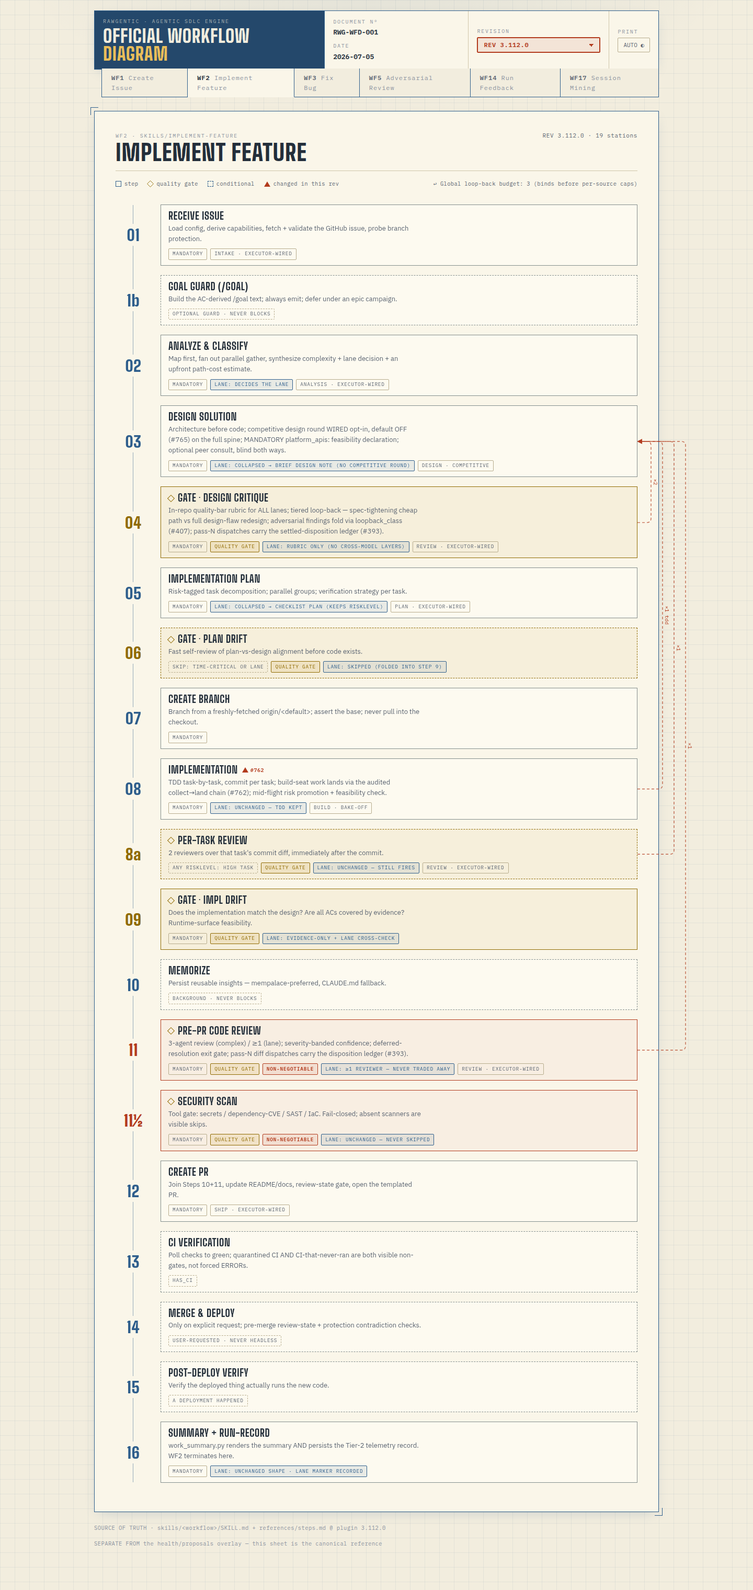
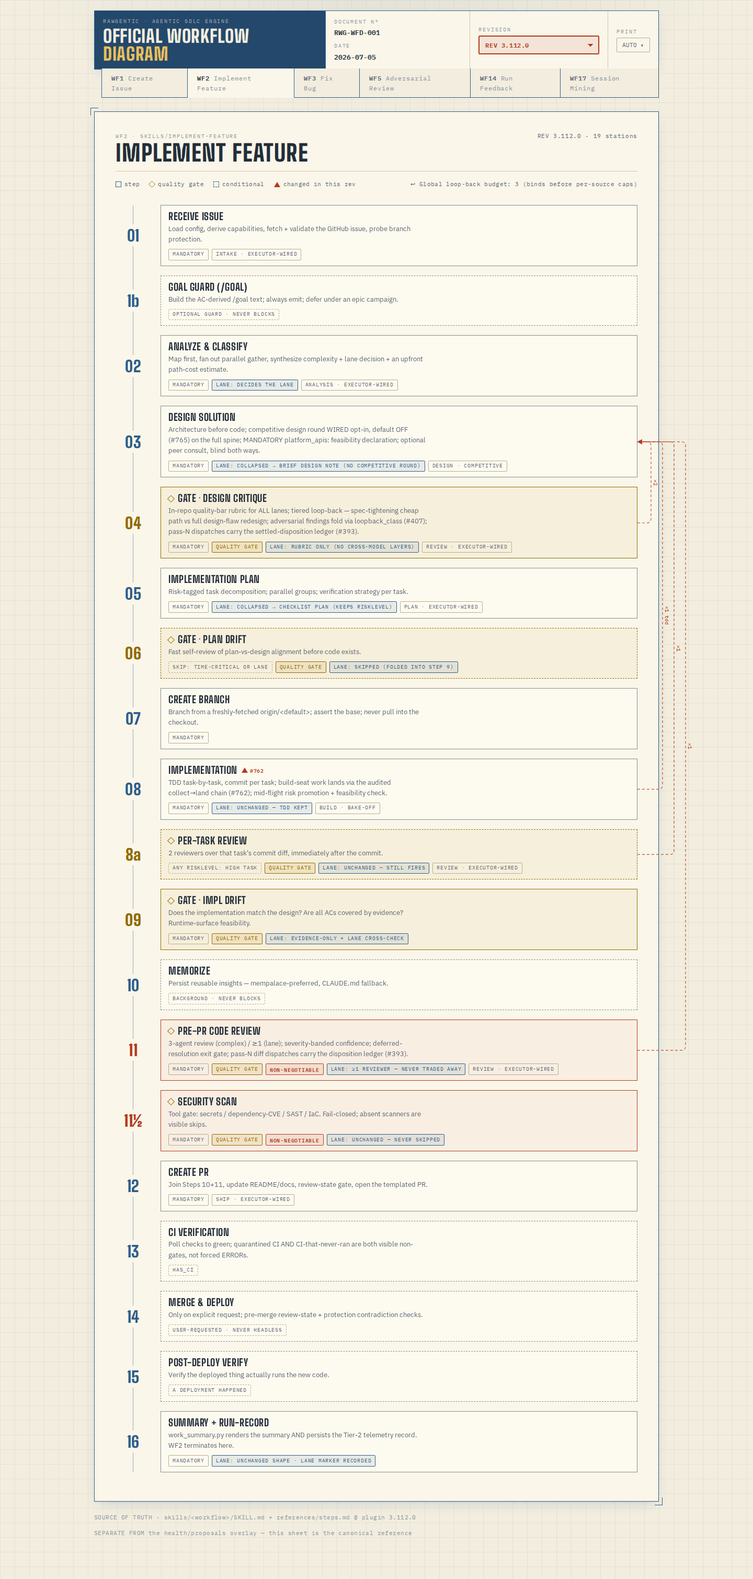
fix(executor,wf2,wf3): Step-11 wave - landing conflicts index by nonce alone, run_id validated at landing, landing-state-aware recovery prose, retune prose tracks executable policy, WF3 producer type derives from seat (#762)
Five findings from the 2-reviewer executor wave (3 independently converged
with the adversarial layer): land_work_product now refuses a same-nonce
different-new_sha landing BEFORE any git mutation (reconcile parity) and
validates run_id one-to-one with its audit dir; steps.md item 4 recovery is
landing-state-aware (baseline-dirty declared paths never checkout-restored);
sol-vs-opus/fable-sol-sonnet prose migrated to the owner matrix across the
shared block, WF3 copy, and the CURRENT diagram rev (historical revs kept,
snapshots regenerated + eyeballed); WF3 DISPATCH type is executor:<seat>.
New dynamic guards tie the pairing/chain prose to DESIGN_MODELS + the
routing table. Red-first for both code fixes; scoped 651 passed.

diff --git a/docs/workflow-diagram.html b/docs/workflow-diagram.html
@@ -291,8 +291,8 @@ const DATA = {
          sum:"Architecture before code; competitive design round WIRED opt-in, default OFF (#765) on the full spine; MANDATORY platform_apis: feasibility declaration; optional peer consult, blind both ways.",
          lane:"collapsed → brief design note (no competitive round)",
          purpose:"Produce the design document before any implementation: file changes, configuration, error handling and failure modes, security implications — plus project-type extras (data flow + migrations for applications, containers + rollback for infrastructure). The small-standard lane collapses this to a brief design note because bounded work has one obvious approach.",
-         sub:[["a","Competitive design round (#765, full spine, OPT-IN): gated by design-round-enabled (designBakeoff on the workspace project entry, default OFF; disabled = brief-note mechanism, session-note line). When enabled: python3 hooks/bakeoff_policy.py design-round --prompt-file <brief> --run-id wf2-<issue>-<session> --correlation-id <issue>-s3-design --winner-out <design-draft-path> --evidence-out <path> — sol vs opus concurrent, glm-5.2 judge; --winner-out delivers the winner's exact bytes as the design draft (stdout/evidence carry no payloads); the round path re-enforces the gate (disabled = exit 4); sanitized evidence joins the run's audit context (raw sink stays gitignored); judge failure: exit 3 fail-loud interactive, judge_degraded incumbent under --headless"],["b","Opt-in peer consult dispatches in the BACKGROUND, blind both ways — your own draft must be on disk before reading the peer's"],["c","2–3 approaches (complex, via subagent brainstorm) or 1–2 inline (standard); pick with rationale"],["d","Design doc: file changes, config changes, error handling, security implications (+ type-specific sections)"],["e","Multi-PR assessment: >500 lines or separable phases → flag for decomposition in Step 5"],["f","Peer-consult failure is non-blocking — gate on exit code; empty proposal → proceed with your own design"],["g","platform_apis: declaration — `none` or evidence-cited blocks; assumed=Step-4 blocker; working-precedent = exact API on exact object kind; fail-silent needs a surfacing assertion"]],
-         facts:[["Bake-off","WIRED opt-in, default OFF (#765) · sol vs opus · glm judge · --winner-out delivers · run-identity on record"],["Peer consult","opt-in · background · non-blocking"],["Blindness","own draft first, both ways"],["Feasibility","platform_apis: mandatory · omission blocks (#226)"]]},
+         sub:[["a","Competitive design round (#765, full spine, OPT-IN): gated by design-round-enabled (designBakeoff on the workspace project entry, default OFF; disabled = brief-note mechanism, session-note line). When enabled: python3 hooks/bakeoff_policy.py design-round --prompt-file <brief> --run-id wf2-<issue>-<session> --correlation-id <issue>-s3-design --winner-out <design-draft-path> --evidence-out <path> — sol vs fable concurrent, glm-5.2 judge; --winner-out delivers the winner's exact bytes as the design draft (stdout/evidence carry no payloads); the round path re-enforces the gate (disabled = exit 4); sanitized evidence joins the run's audit context (raw sink stays gitignored); judge failure: exit 3 fail-loud interactive, judge_degraded incumbent under --headless"],["b","Opt-in peer consult dispatches in the BACKGROUND, blind both ways — your own draft must be on disk before reading the peer's"],["c","2–3 approaches (complex, via subagent brainstorm) or 1–2 inline (standard); pick with rationale"],["d","Design doc: file changes, config changes, error handling, security implications (+ type-specific sections)"],["e","Multi-PR assessment: >500 lines or separable phases → flag for decomposition in Step 5"],["f","Peer-consult failure is non-blocking — gate on exit code; empty proposal → proceed with your own design"],["g","platform_apis: declaration — `none` or evidence-cited blocks; assumed=Step-4 blocker; working-precedent = exact API on exact object kind; fail-silent needs a surfacing assertion"]],
+         facts:[["Bake-off","WIRED opt-in, default OFF (#765) · sol vs fable · glm judge · --winner-out delivers · run-identity on record"],["Peer consult","opt-in · background · non-blocking"],["Blindness","own draft first, both ways"],["Feasibility","platform_apis: mandatory · omission blocks (#226)"]]},
         {id:"4", num:"04", name:"Gate · Design Critique", kind:"gate", mand:true,
          sum:"In-repo quality-bar rubric for ALL lanes; tiered loop-back — spec-tightening cheap path vs full design-flaw redesign; adversarial findings fold via loopback_class (#407); pass-N dispatches carry the settled-disposition ledger (#393).",
          lane:"rubric only (no cross-model layers)",

diff --git a/tests/test_model_routing_resolve_prose.py b/tests/test_model_routing_resolve_prose.py
@@ -264,3 +264,70 @@ def test_review_seat_row_names_no_review_fast_seat():
             f"{skill}: dispatch prose must not name review_fast as a seat"
     assert "--seat <review|review_fast>" not in _norm(skill_corpus("fix-bug")), \
         "fix-bug: the dispatch CLI template must use --seat review"
+
+
+# --- #762 Step-11 r1-2/r2-3: retune-pinned prose tracks the EXECUTABLE policy ---------------
+
+_MODEL_SHORT = {"gpt-5.6-sol": "sol", "claude-fable-5": "fable", "claude-opus-5": "opus",
+                "claude-sonnet-5": "sonnet", "gpt-5.6-terra": "terra"}
+
+
+def _short(model_id: str) -> str:
+    assert model_id in _MODEL_SHORT, (
+        f"model id {model_id!r} has no short prose name — extend _MODEL_SHORT so the "
+        f"retune-prose guards keep tracking the executable policy")
+    return _MODEL_SHORT[model_id]
+
+
+def _design_pairing() -> str:
+    sys.path.insert(0, str(REPO / "hooks"))
+    import bakeoff_policy  # noqa: E402  pylint: disable=import-outside-toplevel
+    a, b = bakeoff_policy.DESIGN_MODELS
+    return f"{_short(a)} vs {_short(b)}"
+
+
+def _review_chain() -> str:
+    import json  # pylint: disable=import-outside-toplevel
+    table = json.loads((REPO / "phase_executor" / "src" / "phase_executor" / "routing"
+                        / "rawgentic.routing-table.json").read_text(encoding="utf-8"))
+    seat = table["seats"]["review"]
+    order = [seat["primary"]["model"]] + [c["model"] for c in seat["chain"]
+                                          if c["model"] != seat["primary"]["model"]]
+    return " → ".join(_short(m) for m in order)
+
+
+def test_design_pairing_prose_tracks_design_models():
+    # A future retune of DESIGN_MODELS fails these until the prose moves with it (r1-2/r2-3).
+    pairing = _design_pairing()
+    for surface in (SHARED, REPO / "skills" / "implement-feature" / "SKILL.md"):
+        text = _norm(surface.read_text(encoding="utf-8"))
+        assert f"({pairing} concurrent, glm-5.2 judge)" in text, (
+            f"{surface.name}: the design-round pairing prose must state the executable "
+            f"DESIGN_MODELS pairing {pairing!r}")
+
+
+def test_design_pairing_current_diagram_rev_tracks_design_models():
+    # Only the CURRENT (non-superseded) diagram rev must track the live pairing; historical
+    # revs legitimately keep the models of their day.
+    pairing = _design_pairing()
+    html = (REPO / "docs" / "workflow-diagram.html").read_text(encoding="utf-8")
+    m = re.search(r'"([0-9.]+)": \{ superseded:false', html)
+    assert m, "no non-superseded wf2 rev found in the diagram data"
+    start = m.start()
+    nxt = re.search(r'"[0-9.]+": \{ superseded:"', html[start:])
+    block = html[start:start + nxt.start()] if nxt else html[start:]
+    assert f"· {pairing} ·" in block, (
+        f"the current diagram rev {m.group(1)} must state the executable pairing {pairing!r}")
+    others = set(re.findall(r"· (\w+ vs \w+) ·", block)) - {pairing}
+    assert not others, f"current diagram rev carries a non-executable pairing: {others}"
+
+
+def test_review_chain_prose_tracks_routing_table():
+    chain = _review_chain()
+    for surface, needle in (
+            (SHARED, f"the `review` chain {chain}"),
+            (REPO / "skills" / "implement-feature" / "SKILL.md", f"the `review` chain {chain}"),
+            (REPO / "skills" / "fix-bug" / "SKILL.md", f"the routing table, {chain}")):
+        text = _norm(surface.read_text(encoding="utf-8"))
+        assert needle in text, (
+            f"{surface}: the review-chain prose must state the executable order {chain!r}")

diff --git a/hooks/executor_routing_lib.py b/hooks/executor_routing_lib.py
@@ -2110,6 +2110,15 @@ def land_work_product(*, repo: Optional[str] = None, expected_ref: str, pre_sha:
                         "land-work-product: audited mode requires --run-id --workspace "
                         "--project (or pass --no-audit as the explicit unaudited opt-out)",
                         retryable=False, correlation_id=ce)
+        try:
+            # #762 Step-11 r2-5: RoutingAuditLog SANITIZES its run_id component ('a/b' and
+            # 'a_b' address the same audit directory), so a path-unsafe id could consume a
+            # foreign run stream's work-product authorization — refuse at entry, before any
+            # audit read or git mutation (the same validation every other entry point runs).
+            _safe_component(run_id, "run_id")
+        except MalformedConfig as e:
+            return _err(EXIT_MALFORMED, "landing_invalid_input",
+                        f"land-work-product: {e}", retryable=False, correlation_id=ce)
         if audit is None:
             try:
                 pe = _import_phase_executor()
@@ -2194,12 +2203,24 @@ def land_work_product(*, repo: Optional[str] = None, expected_ref: str, pre_sha:
         for r in records:
             if r.get("kind") != "landed_work_product":
                 continue
-            if r.get("receipt_nonce") != nonce or r.get("new_sha") != new_sha:
+            if r.get("receipt_nonce") != nonce:
                 continue
             if all(r.get(k) == ours[k] for k in _LANDING_IDENTITY_FIELDS):
                 has_matching_landing = True
             else:
+                # #762 Step-11 r2-2: index by receipt nonce ALONE — reconcile treats ANY two
+                # distinct identities for one nonce as landing_conflict, so a same-nonce
+                # record at a DIFFERENT new_sha (a poisoned or corrupt landing) must conflict
+                # here too, not slip past a (nonce, new_sha) filter until post-merge.
                 has_conflicting_landing = True
+        if has_conflicting_landing:
+            # Refuse BEFORE any git mutation (r2-2); _append_landing keeps the same guard as
+            # defense in depth. The temp ref is retained for forensics.
+            return _err(EXIT_INTERNAL, "landing_identity_conflict",
+                        f"land-work-product: an existing landed_work_product for receipt "
+                        f"{nonce!r} carries a DIFFERENT immutable identity — refusing before "
+                        f"any git mutation; reconcile manually", retryable=False,
+                        correlation_id=ce)
 
     def _append_landing(status: str):
         """R4-B: append (idempotent, conflict-refusing) — returns an error dict or None."""

diff --git a/tests/hooks/test_collect_task_path.py b/tests/hooks/test_collect_task_path.py
@@ -441,6 +441,37 @@ def test_land_identity_conflict_refuses_at_append(repo, tmp_path):
     assert _git(repo, "rev-parse", "--verify", TEMP_REF)[0] == 0  # retained for forensics
 
 
+def test_land_same_nonce_different_new_sha_refuses_pre_merge(repo, tmp_path):
+    # #762 Step-11 r2-2: landing and reconcile must agree on the conflict identity — a
+    # landed_work_product for the SAME receipt nonce at a DIFFERENT new_sha is a conflicting
+    # identity (reconcile already calls it landing_conflict), refused BEFORE any git mutation,
+    # not silently ignored until post-merge reconciliation.
+    audit, base, new_sha = _setup(repo, tmp_path)
+    audit._write_locked({  # pylint: disable=protected-access
+        "kind": "landed_work_product", "landing_version": 1, "receipt_nonce": "rn1",
+        "feature_ref": FEAT, "pre_sha": base, "new_sha": "f" * 40,
+        "temp_ref": TEMP_REF, "landing_status": "landed", "run_id": "runI", "ts": 1})
+    res = er.land_work_product(repo=str(repo), expected_ref=FEAT, pre_sha=base,
+                               new_sha=new_sha, temp_ref=TEMP_REF, run_id="runI", audit=audit)
+    assert res["ok"] is False and res["error"]["code"] == "landing_identity_conflict"
+    # pre-mutation: the branch did NOT advance and the temp ref is retained
+    assert _git(repo, "rev-parse", "refs/heads/feat-x")[1].strip() == base
+    assert _git(repo, "rev-parse", "--verify", TEMP_REF)[0] == 0
+
+
+def test_land_path_unsafe_run_id_refuses(repo, tmp_path):
+    # #762 Step-11 r2-5: RoutingAuditLog sanitizes run_id ('a/b' and 'a_b' address the same
+    # audit directory), so a path-unsafe run_id could consume another run stream's
+    # authorization — refused at entry, before any audit read or git mutation.
+    audit, base, new_sha = _setup(repo, tmp_path)
+    res = er.land_work_product(repo=str(repo), expected_ref=FEAT, pre_sha=base,
+                               new_sha=new_sha, temp_ref=TEMP_REF, run_id="run/../I",
+                               audit=audit)
+    assert res["ok"] is False and res["error"]["code"] == "landing_invalid_input"
+    assert res["exit"] == 2
+    assert _git(repo, "rev-parse", "refs/heads/feat-x")[1].strip() == base
+
+
 def _write_workspace(tmp_path, project="canon"):
     ws = tmp_path / ".rawgentic_workspace.json"
     ws.write_text(json.dumps({"version": 1, "projects": [

diff --git a/tests/test_wf3_clarity.py b/tests/test_wf3_clarity.py
@@ -306,13 +306,19 @@ class TestExecutorDispatchContractWF3:
             "the R4-D WF3 complexity-to-gate mapping must be present (#762)")
 
     def test_producer_sentence_present(self):
+        # #762 Step-11 r2-4/r1-3: WF3 dispatches BOTH seats since the build adoption — the
+        # producer type derives from the seat, never hardcodes executor:review.
         corpus = _norm(_text())
-        assert ("The producer is the executor result dict (`type=executor:review`, "
-                "`model=<actual_model>`, `resolution=primary`) on the primary tier, "
+        assert ("The producer is the executor result dict (`type=executor:<seat>` — "
+                "`executor:review` for review dispatches, `executor:build` for "
+                "implementation dispatches — `model=<actual_model>`, "
+                "`resolution=primary`) on the primary tier, "
                 "or — under the LEGACY architecture only — the Agent-tool dispatch "
                 "(`resolution=fallback`).") in corpus, (
-            "the WF3 DISPATCH producer sentence (executor result dict vs "
-            "legacy-architecture Agent-tool) must be present (#474)")
+            "the WF3 DISPATCH producer sentence (seat-derived executor type vs "
+            "legacy-architecture Agent-tool) must be present (#474, #762)")
+        assert "(`type=executor:review`, `model=<actual_model>`" not in corpus, (
+            "the pre-#762 hardcoded executor:review producer form must be gone")
 
     def test_per_run_tier_selection_present(self):
         corpus = _norm(_text())

diff --git a/skills/implement-feature/references/steps.md b/skills/implement-feature/references/steps.md
@@ -999,7 +999,12 @@ runnable commit lands on the branch, before the receipt gates.
    - **EXECUTOR tier (the default):** a mutating executor build dispatch delivers UNCOMMITTED worktree work — the linked worktree's real gitdir lives under the MAIN repo's `.git/worktrees/<leaf>/` and that gitdir is read-only under containment, so the agent cannot commit (and the commit write-set spans the common `.git` — objects DB, refs — so widening the grant would expose the canonical repo; #767's live probe). Committing is the ORCHESTRATOR's job, in two steps. **(a) Promote** the work product onto a per-collection temp ref via the collection entry point: `python3 hooks/executor_routing_lib.py collect-work-product --run-id <run> --session-name <job> --target-ref refs/rawgentic/collect/<receipt-nonce> --expected-target-sha 0000000000000000000000000000000000000000 --expected-feature-ref <feature-ref recorded before dispatch> --kind code --promote-path <file> [--promote-path <file> …] --workspace <ws> --project <name>` — for `--kind code`, `--expected-feature-ref` is mandatory: collect authorizes the landing destination at collection time; use one `--promote-path` per declared task file (the staging backstop enforced as promote's fail-closed exact-path policy; binary-safe by candidate-tree construction; receipt+observation-authorized; the temp ref uses create semantics, so promote's CF-1 tip-guard does not bind here — the fast-forward in (b) is the branch-level guard; the CLI ENFORCES this exact ref+zero-SHA shape for exact-path collects, `invalid_collect_ref` otherwise). **(b) Land** it on the checked-out feature branch via the production verb: `python3 hooks/executor_routing_lib.py land-work-product --expected-ref <feature-ref recorded before dispatch> --pre-sha <recorded pre-task SHA> --new-sha <new_sha> --temp-ref refs/rawgentic/collect/<receipt-nonce> --run-id <run> --workspace <ws> --project <name>` — audited mode derives the repo from workspace+project; `--no-audit` is the explicit unaudited opt-out for standalone/ops use, never the WF2 path. It refuses ONLY when a path changed by `pre_sha..new_sha` is itself dirty in the checkout (`landing_dirty_paths`, naming the paths); unrelated dirt is tolerated, and git's own ff checkout-overwrite protection stays as the fail-loud backstop. It also asserts `git symbolic-ref -q HEAD` equals the feature ref recorded before dispatch, then tri-states on the ref's SHA — at the recorded pre-task SHA → `git merge --ff-only <new_sha>`; already exactly `new_sha` → already-landed (crash recovery), continue cleanup; anything else, a detached HEAD, or a different branch at the same SHA → REFUSE. Post-merge it asserts HEAD and the ref both equal exactly `new_sha`, appends a `landed_work_product` audit record AFTER the merge and BEFORE the CAS temp-ref delete, then CAS-deletes the temp ref (`git update-ref -d refs/rawgentic/collect/<receipt-nonce> <new_sha>`). An audit-append failure retains the temp ref; a re-run heals it. A bare `update-ref` on the checked-out feature branch is FORBIDDEN — it moves the ref while the files/index stay at the pre-task state, so the scoped suite would test stale code. This ratifies-and-supersedes the #735 ad-hoc diff-export collection (commit ba4ceec): same principle — the orchestrator lands the work — with the authorization, CAS, and binary fidelity the improvisation lacked.
    - **LEGACY tier (Agent-tool worktree dispatches, which CAN commit):** the agent's commit lives in the shared object store but NOT on the feature branch — collect it first (cherry-pick or fast-forward the reported SHA onto the feature branch). Apply the staging backstop to the COLLECTED commit (`git show --name-only <sha>` ⊆ the task's declared `files`), not the main tree's staging area.
    - **Either tier:** **assert the branch actually advanced** (`git rev-parse HEAD` differs from the recorded pre-task HEAD) **AND that the advance carries content** (`git diff --name-only <pre-task sha>..HEAD` is non-empty — an empty commit advances HEAD while every diff-scoped gate passes vacuously, #767 8a); a task whose work never lands is NOT done, and skipping this check would let the later diff-scoped gates (Step 8a, Step 11, secret scan) run over an empty diff and pass vacuously. The serial chain depends on it too: the next task's worktree is cut only after the work is on the branch. Then re-run the SCOPED suite for the task's area (per `<test-run-discipline>`, SKILL.md — the recorded-baseline diff belongs to Step 9's full-suite gate, which still runs in the orchestrator). On success (scoped tests green, only expected paths changed, work landed on the branch) → proceed to the next task. At this completed collect/land call site, emit exactly ONE canonical `DISPATCH` line per build-seat workflow dispatch, with outcome per the `<model-routing-resolve>` emission rule (`ok`/`retried`/`error`/`dead`); attempts never emit their own lines.
-4. **On failure or vacuous return:** **restore ONLY the task-owned paths** first — `git checkout -- <task's declared files>` for tracked content, plus removal of ONLY the agent's reported untracked outputs after they are confirmed still-untracked and path-checked; never blanket-reset or clean a shared checkout — then **retry that task once at the CEILING model** (escalate: a down-routed task that struggled gets the configured maximum, dispatched the same clean-state way, or inline if the ceiling is `inherit`). Log the escalation. Because the restore runs first, the retry never operates on a half-mutated tree.
+4. **On failure or vacuous return — recovery is LANDING-STATE-AWARE (#762 Step 11; the item-1 dirty baseline is the authority on what was already there):**
+   - **No landing occurred** (executor tier — including a landing refusal): the shared checkout was never touched; the work lives in the isolated worktree/temp ref. **Restore NOTHING** — leave the checkout and every baseline path exactly as item 1 recorded them. A landing refused for `landing_dirty_paths` names the operator's own pre-existing edits: a `git checkout --` there would destroy exactly what the refusal protected. Clean up an orphaned collect temp ref only after confirming no landing record was appended for its nonce.
+   - **A landing already happened, then verification failed** (scoped suite red on the landed commit): do NOT checkout-restore — the branch advanced to the landed SHA and file-level restore cannot move HEAD back, so a "restore" reads from the failed commit itself. Treat it as the normal red-suite failure path: fix forward, or revert with a NEW commit after proving `git rev-parse HEAD` still equals the task's landed SHA; if baseline preservation cannot be proven, STOP for manual recovery.
+   - **LEGACY tier without isolation** (the only case where the agent mutated the shared checkout): restore ONLY the task's declared paths that the item-1 baseline recorded as CLEAN — `git checkout -- <those paths>`; a declared path the baseline recorded as DIRTY stops for manual recovery instead (never checkout-overwrite an operator edit). Remove ONLY the agent's reported untracked outputs after they are confirmed still-untracked and path-checked; never blanket-reset or clean a shared checkout.
+
+   Then **retry that task once at the CEILING model** (escalate: a down-routed task that struggled gets the configured maximum, dispatched the same clean-state way, or inline if the ceiling is `inherit`). Log the escalation. The recovery rules above run first, so the retry never operates on a half-mutated tree — and never on a tree from which an operator's recorded edits were "restored" away.
 5. Delegation can never block Step 8: a second failure falls through to the normal Step 8 failure handling.
 
 Under the LEGACY architecture, when the `implementation` role is `inherit`, Step 8 runs inline exactly as it did pre-#474 — no delegation (and if the session model is Haiku, dispatch any implementation subagent with `model: sonnet`).

diff --git a/skills/implement-feature/SKILL.md b/skills/implement-feature/SKILL.md
@@ -180,7 +180,7 @@ Build seats require BOTH `--gate-file` and `--plan-file` (the authenticated #429
 | WF2 phase | seat | notes |
 |---|---|---|
 | Step 2 fan-out | `analysis` | concurrent executor dispatches of the `analysis` seat (D-2); ≤3 concurrent preserved |
-| Step 3 design generation | bake-off (`competitive`) | competitive-only, never single-dispatch — **WIRED, opt-in (#765, owner decision 2026-07-31): gated by `python3 hooks/bakeoff_policy.py design-round-enabled --workspace <workspace-file> --project <name>` (exit 0 = opted in via `designBakeoff: {"enabled": true}` on the project's workspace entry; default OFF — a non-zero exit skips the round with a session-note line, Step 3 keeps its current mechanism). When opted in, full-spine Step 3 design generation dispatches ONE competitive design round via `python3 hooks/bakeoff_policy.py design-round --prompt-file <brief> --run-id wf2-<issue>-<session> --correlation-id <issue>-s3-design --workspace <workspace-file> --project <name> --winner-out <design-draft-path> --evidence-out <path>` (sol vs opus concurrent, glm-5.2 judge). `--winner-out` IS the winner-delivery channel: Step 3 proceeds only after exit 0 AND adopts that file's exact bytes as the design draft — stdout and the evidence carry no payloads, so a round without `--winner-out` produces no draft. The sanitized `--evidence-out` record rides the run's audit context — the raw sink stays gitignored. The round path itself re-enforces the opt-in (a disabled project refuses, exit 4) — the probe verb is the prose gate, not the only guard. Prerequisites: the judge env (`source ~/.config/rawgentic/glm-judge.env`) and a zhipuai-capable python — run the CLI under one (e.g. the workspace `.venv-bench`); on judge failure the CLI exits 3 fail-loud (interactive) or records a `judge_degraded` incumbent winner (`--headless`) — a degraded round is surfaced, never silently passed. The small-standard lane keeps its brief design note (the lane drops design ceremony, not review); a lane child skips the round with a session-note line.** |
+| Step 3 design generation | bake-off (`competitive`) | competitive-only, never single-dispatch — **WIRED, opt-in (#765, owner decision 2026-07-31): gated by `python3 hooks/bakeoff_policy.py design-round-enabled --workspace <workspace-file> --project <name>` (exit 0 = opted in via `designBakeoff: {"enabled": true}` on the project's workspace entry; default OFF — a non-zero exit skips the round with a session-note line, Step 3 keeps its current mechanism). When opted in, full-spine Step 3 design generation dispatches ONE competitive design round via `python3 hooks/bakeoff_policy.py design-round --prompt-file <brief> --run-id wf2-<issue>-<session> --correlation-id <issue>-s3-design --workspace <workspace-file> --project <name> --winner-out <design-draft-path> --evidence-out <path>` (sol vs fable concurrent, glm-5.2 judge). `--winner-out` IS the winner-delivery channel: Step 3 proceeds only after exit 0 AND adopts that file's exact bytes as the design draft — stdout and the evidence carry no payloads, so a round without `--winner-out` produces no draft. The sanitized `--evidence-out` record rides the run's audit context — the raw sink stays gitignored. The round path itself re-enforces the opt-in (a disabled project refuses, exit 4) — the probe verb is the prose gate, not the only guard. Prerequisites: the judge env (`source ~/.config/rawgentic/glm-judge.env`) and a zhipuai-capable python — run the CLI under one (e.g. the workspace `.venv-bench`); on judge failure the CLI exits 3 fail-loud (interactive) or records a `judge_degraded` incumbent winner (`--headless`) — a degraded round is surfaced, never silently passed. The small-standard lane keeps its brief design note (the lane drops design ceremony, not review); a lane child skips the round with a session-note line.** |
 | Step 4 / 8a / 11 review | `review` | always the `review` seat — `review_fast` is a #491 LENS/model tier resolved via `resolve --role review --lens <lens>`, NOT a wired seat (`classify_seat` rejects it; the standing authorization covers exactly `analysis`/`review`/`build`, #735) |
 | Step 8 implementation | `build` | gate authentication + internally minted plan context (`--gate-file` + `--plan-file`, both mandatory) |
 | Step 16 | local | no model call |
@@ -221,7 +221,7 @@ Resolution decision table (maps the dispatch ladder to #329's vocab):
 | Named agent type unavailable AND no bundled substitute tier is declared (or the substitute also fails to resolve) → generic inline-prompt dispatch | `generic` (`subagent_type` = `generic-<role>`) |
 | A bundled SUBSTITUTE agent type ran in place of an unavailable named type | `fallback` — no WF2 producer today; WF3 Step 9's declared per-slot chain (#331) produces it at tier 2 |
 
-**Seat fallback chains + circuit breaker (#417).** Each seat's model is a config-declared chain (the routing table's `primary` + `chain[]`, e.g. the interim `review` chain fable → sol → sonnet, #426), tried in order on an AVAILABILITY failure; the skip is **chain-aware** — it drops any entry that would violate the artifact's cross-model invariant, never blindly the literal next entry. **A chain that exhausts its eligible entries is a handled hard failure, never a silent downgrade** — the run surfaces it (the ERROR protocol), it does not quietly proceed on an unrouted model.
+**Seat fallback chains + circuit breaker (#417).** Each seat's model is a config-declared chain (the routing table's `primary` + `chain[]`, e.g. the `review` chain sol → fable → sonnet — owner matrix 2026-07-31, #762), tried in order on an AVAILABILITY failure; the skip is **chain-aware** — it drops any entry that would violate the artifact's cross-model invariant, never blindly the literal next entry. **A chain that exhausts its eligible entries is a handled hard failure, never a silent downgrade** — the run surfaces it (the ERROR protocol), it does not quietly proceed on an unrouted model.
 
 **Concurrency ceiling (#417).** Keep **≤ 3 concurrent Claude subagents** (the standing cap); when the driver itself is dispatching Claude work alongside them, reserve one slot for the driver → an **effective working ceiling of 2**. This is a PROSE rule — no programmatic clamp exists — so honor it when fanning out (Step 8a's two reviewers and Step 11's two agents (#492) sit within the cap; a cross-engine candidate on the codex/zhipu pool consumes no Claude slot). `queued_ms` on an Observation records any queue wait so a stall is diagnosable.
 

diff --git a/shared/blocks/model-routing-resolve.md b/shared/blocks/model-routing-resolve.md
@@ -38,7 +38,7 @@ Build seats require BOTH `--gate-file` and `--plan-file` (the authenticated #429
 | WF2 phase | seat | notes |
 |---|---|---|
 | Step 2 fan-out | `analysis` | concurrent executor dispatches of the `analysis` seat (D-2); ≤3 concurrent preserved |
-| Step 3 design generation | bake-off (`competitive`) | competitive-only, never single-dispatch — **WIRED, opt-in (#765, owner decision 2026-07-31): gated by `python3 hooks/bakeoff_policy.py design-round-enabled --workspace <workspace-file> --project <name>` (exit 0 = opted in via `designBakeoff: {"enabled": true}` on the project's workspace entry; default OFF — a non-zero exit skips the round with a session-note line, Step 3 keeps its current mechanism). When opted in, full-spine Step 3 design generation dispatches ONE competitive design round via `python3 hooks/bakeoff_policy.py design-round --prompt-file <brief> --run-id wf2-<issue>-<session> --correlation-id <issue>-s3-design --workspace <workspace-file> --project <name> --winner-out <design-draft-path> --evidence-out <path>` (sol vs opus concurrent, glm-5.2 judge). `--winner-out` IS the winner-delivery channel: Step 3 proceeds only after exit 0 AND adopts that file's exact bytes as the design draft — stdout and the evidence carry no payloads, so a round without `--winner-out` produces no draft. The sanitized `--evidence-out` record rides the run's audit context — the raw sink stays gitignored. The round path itself re-enforces the opt-in (a disabled project refuses, exit 4) — the probe verb is the prose gate, not the only guard. Prerequisites: the judge env (`source ~/.config/rawgentic/glm-judge.env`) and a zhipuai-capable python — run the CLI under one (e.g. the workspace `.venv-bench`); on judge failure the CLI exits 3 fail-loud (interactive) or records a `judge_degraded` incumbent winner (`--headless`) — a degraded round is surfaced, never silently passed. The small-standard lane keeps its brief design note (the lane drops design ceremony, not review); a lane child skips the round with a session-note line.** |
+| Step 3 design generation | bake-off (`competitive`) | competitive-only, never single-dispatch — **WIRED, opt-in (#765, owner decision 2026-07-31): gated by `python3 hooks/bakeoff_policy.py design-round-enabled --workspace <workspace-file> --project <name>` (exit 0 = opted in via `designBakeoff: {"enabled": true}` on the project's workspace entry; default OFF — a non-zero exit skips the round with a session-note line, Step 3 keeps its current mechanism). When opted in, full-spine Step 3 design generation dispatches ONE competitive design round via `python3 hooks/bakeoff_policy.py design-round --prompt-file <brief> --run-id wf2-<issue>-<session> --correlation-id <issue>-s3-design --workspace <workspace-file> --project <name> --winner-out <design-draft-path> --evidence-out <path>` (sol vs fable concurrent, glm-5.2 judge). `--winner-out` IS the winner-delivery channel: Step 3 proceeds only after exit 0 AND adopts that file's exact bytes as the design draft — stdout and the evidence carry no payloads, so a round without `--winner-out` produces no draft. The sanitized `--evidence-out` record rides the run's audit context — the raw sink stays gitignored. The round path itself re-enforces the opt-in (a disabled project refuses, exit 4) — the probe verb is the prose gate, not the only guard. Prerequisites: the judge env (`source ~/.config/rawgentic/glm-judge.env`) and a zhipuai-capable python — run the CLI under one (e.g. the workspace `.venv-bench`); on judge failure the CLI exits 3 fail-loud (interactive) or records a `judge_degraded` incumbent winner (`--headless`) — a degraded round is surfaced, never silently passed. The small-standard lane keeps its brief design note (the lane drops design ceremony, not review); a lane child skips the round with a session-note line.** |
 | Step 4 / 8a / 11 review | `review` | always the `review` seat — `review_fast` is a #491 LENS/model tier resolved via `resolve --role review --lens <lens>`, NOT a wired seat (`classify_seat` rejects it; the standing authorization covers exactly `analysis`/`review`/`build`, #735) |
 | Step 8 implementation | `build` | gate authentication + internally minted plan context (`--gate-file` + `--plan-file`, both mandatory) |
 | Step 16 | local | no model call |
@@ -79,7 +79,7 @@ Resolution decision table (maps the dispatch ladder to #329's vocab):
 | Named agent type unavailable AND no bundled substitute tier is declared (or the substitute also fails to resolve) → generic inline-prompt dispatch | `generic` (`subagent_type` = `generic-<role>`) |
 | A bundled SUBSTITUTE agent type ran in place of an unavailable named type | `fallback` — no WF2 producer today; WF3 Step 9's declared per-slot chain (#331) produces it at tier 2 |
 
-**Seat fallback chains + circuit breaker (#417).** Each seat's model is a config-declared chain (the routing table's `primary` + `chain[]`, e.g. the interim `review` chain fable → sol → sonnet, #426), tried in order on an AVAILABILITY failure; the skip is **chain-aware** — it drops any entry that would violate the artifact's cross-model invariant, never blindly the literal next entry. **A chain that exhausts its eligible entries is a handled hard failure, never a silent downgrade** — the run surfaces it (the ERROR protocol), it does not quietly proceed on an unrouted model.
+**Seat fallback chains + circuit breaker (#417).** Each seat's model is a config-declared chain (the routing table's `primary` + `chain[]`, e.g. the `review` chain sol → fable → sonnet — owner matrix 2026-07-31, #762), tried in order on an AVAILABILITY failure; the skip is **chain-aware** — it drops any entry that would violate the artifact's cross-model invariant, never blindly the literal next entry. **A chain that exhausts its eligible entries is a handled hard failure, never a silent downgrade** — the run surfaces it (the ERROR protocol), it does not quietly proceed on an unrouted model.
 
 **Concurrency ceiling (#417).** Keep **≤ 3 concurrent Claude subagents** (the standing cap); when the driver itself is dispatching Claude work alongside them, reserve one slot for the driver → an **effective working ceiling of 2**. This is a PROSE rule — no programmatic clamp exists — so honor it when fanning out (Step 8a's two reviewers and Step 11's two agents (#492) sit within the cap; a cross-engine candidate on the codex/zhipu pool consumes no Claude slot). `queued_ms` on an Observation records any queue wait so a stall is diagnosable.
 

diff --git a/skills/fix-bug/SKILL.md b/skills/fix-bug/SKILL.md
@@ -131,7 +131,7 @@ WF3 review dispatches use the `review` seat and never carry `--gate-file`/`--pla
 | 5 internal | `error` | terminal internal fault |
 | 6 refused (canary) | `error` | terminal refusal |
 
-**Emission rule (per WORKFLOW DISPATCH, #735 — owner-ratified):** the ORCHESTRATOR owns the retry loop: one workflow dispatch may comprise up to two executor ATTEMPTS (distinct correlation ids, e.g. `<id>` and `<id>-r1`), each attempt leaving its own receipt/observation in the audit trail — and the workflow dispatch emits exactly ONE canonical `DISPATCH` line once the loop completes (retried-then-succeeded → `outcome=retried`; retried-and-failed → `outcome=error`; abandoned hung/vacuous → `dead`). The attempt-level executor call never emits a session-note DISPATCH line of its own; no attempt ever disappears — attempt detail lives in receipts, not extra DISPATCH lines. Retry is permitted ONLY on proven death: a terminal failure observation for sync attempts (a #733 `dispatch_*` process-failure result is one) — an unverified kill or a receipt with no observation goes DIRECTLY to the ERROR protocol, no blind retry (#733/#766). The producer is the executor result dict (`type=executor:review`, `model=<actual_model>`, `resolution=primary`) on the primary tier, or — under the LEGACY architecture only — the Agent-tool dispatch (`resolution=fallback`).
+**Emission rule (per WORKFLOW DISPATCH, #735 — owner-ratified):** the ORCHESTRATOR owns the retry loop: one workflow dispatch may comprise up to two executor ATTEMPTS (distinct correlation ids, e.g. `<id>` and `<id>-r1`), each attempt leaving its own receipt/observation in the audit trail — and the workflow dispatch emits exactly ONE canonical `DISPATCH` line once the loop completes (retried-then-succeeded → `outcome=retried`; retried-and-failed → `outcome=error`; abandoned hung/vacuous → `dead`). The attempt-level executor call never emits a session-note DISPATCH line of its own; no attempt ever disappears — attempt detail lives in receipts, not extra DISPATCH lines. Retry is permitted ONLY on proven death: a terminal failure observation for sync attempts (a #733 `dispatch_*` process-failure result is one) — an unverified kill or a receipt with no observation goes DIRECTLY to the ERROR protocol, no blind retry (#733/#766). The producer is the executor result dict (`type=executor:<seat>` — `executor:review` for review dispatches, `executor:build` for implementation dispatches — `model=<actual_model>`, `resolution=primary`) on the primary tier, or — under the LEGACY architecture only — the Agent-tool dispatch (`resolution=fallback`).
 
 **Architecture selection is per-RUN, declared at run start via `begin-run`, never mixed (#474).** The workspace-level `defaultArchitecture` key selects the architecture (`"executor"` — the default when absent — or `"legacy"`); the run probes the executor tier once at run start (import + routing-table resolve) and, UNDER THE EXECUTOR ARCHITECTURE, declares itself: `python3 hooks/executor_routing_lib.py begin-run --run-id <run-id> --workspace <ws> --project <name>` pins the architecture in the run ledger's `initial` record (begin-run is executor-only — under legacy it refuses, exit 4; a legacy run makes no begin-run call and declares via session note + run-record); every executor entry point consumes that pin (an undeclared run refuses `run_not_declared`; a mixed dispatch refuses `mixed_architecture_run_refused`, exit 4). The session-note line (`architecture: executor` / `architecture: legacy (defaultArchitecture)`) mirrors the declaration. A MID-RUN executor failure is a handled hard failure surfaced via the ERROR protocol — NEVER a downgrade to the Agent tool: there is no runtime fallback tier. Switching architectures is a deliberate JOINT config change (owner + operator edit `defaultArchitecture`), takes effect for NEW runs, and stops any in-flight run of the other architecture loudly at its next dispatch/recovery. This extends the #417 no-silent-downgrade rule to an absolute.
 
@@ -164,7 +164,7 @@ Resolution decision table (WF3 review dispatches):
 | Tier 2: `rawgentic:rawgentic-reviewer` ran as the SUBSTITUTE for an unresolvable named type | `fallback` — the first real producer (#331) |
 | Tier 3: generic inline-prompt dispatch (`subagent_type` = `generic-review`) | `generic` |
 
-**Seat fallback chains + circuit breaker (#417).** WF3's `review` seat model is a config-declared chain (the routing table, interim fable → sol → sonnet, #426), tried in order on an AVAILABILITY failure with a chain-aware cross-model skip; a chain that exhausts its eligible entries is a handled hard failure, never a silent downgrade. This is DISTINCT from the per-slot agent-TYPE descent in the tier table above (which selects the reviewer type, not the model).
+**Seat fallback chains + circuit breaker (#417).** WF3's `review` seat model is a config-declared chain (the routing table, sol → fable → sonnet — owner matrix 2026-07-31, #762), tried in order on an AVAILABILITY failure with a chain-aware cross-model skip; a chain that exhausts its eligible entries is a handled hard failure, never a silent downgrade. This is DISTINCT from the per-slot agent-TYPE descent in the tier table above (which selects the reviewer type, not the model).
 
 **Concurrency ceiling (#417).** ≤ 3 concurrent Claude subagents (the standing cap); reserve one slot for the driver when it dispatches Claude work alongside them → an effective working ceiling of 2. Prose rule, no programmatic clamp — honor it when fanning out review agents (a codex/zhipu candidate consumes no Claude slot).
 
